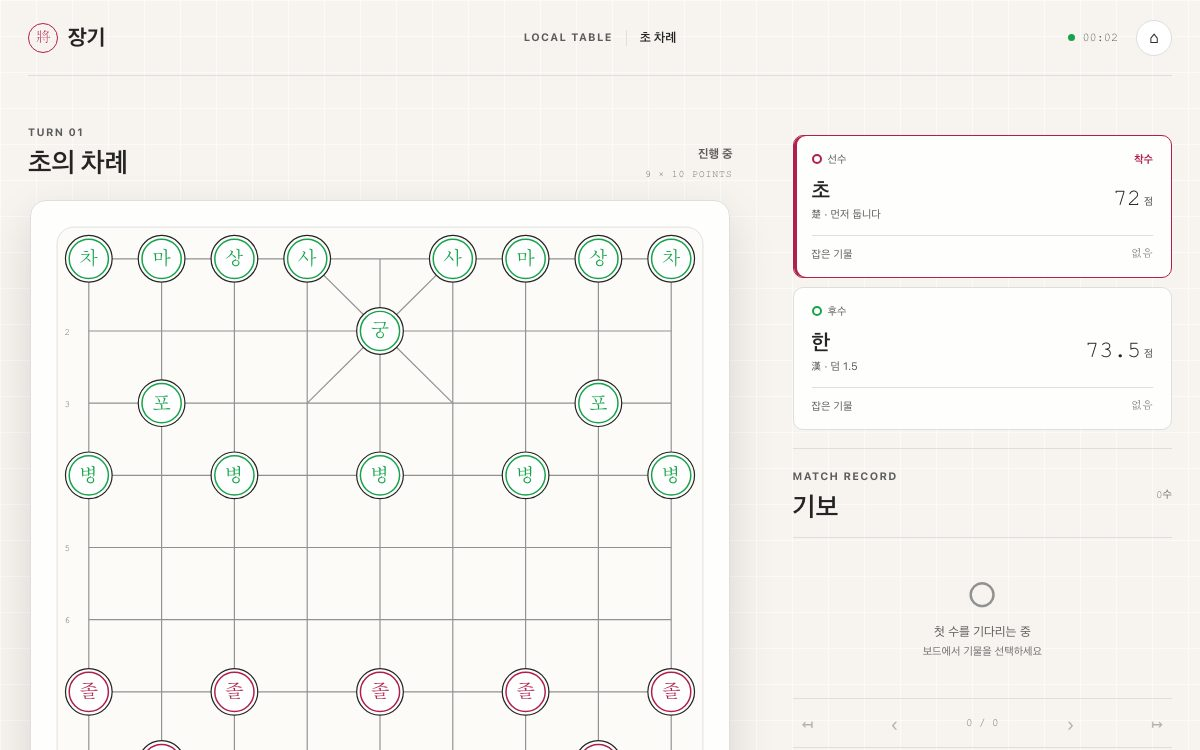
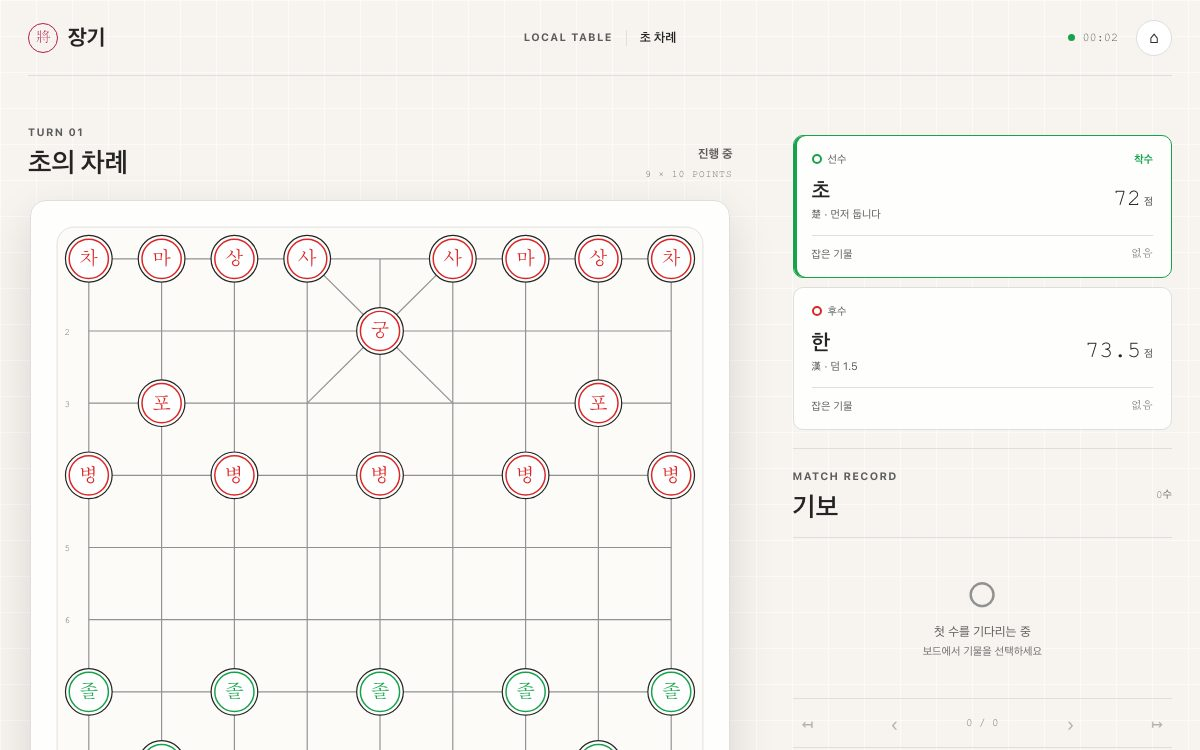
Publish cost comparison and correct Luna/Terra side colors

diff --git a/deploy/portal.template.html b/deploy/portal.template.html
@@ -674,6 +674,33 @@
         .impl { scroll-margin-top: 120px; }
         .impl-body { padding-inline: 16px; }
       }
+      .cost-kind { display: block; color: var(--muted); font-size: 10px; font-weight: 500; }
+      .cost-layout { display: grid; grid-template-columns: 1.4fr 1fr; gap: 28px; }
+      .cost-chart { margin: 0; padding: 18px 0; border-block: 1px solid var(--line); min-width: 0; }
+      .cost-chart h3 { margin: 0; font-size: 18px; }
+      .cost-axis { font-size: 12px; color: var(--muted); margin: 4px 0 16px; }
+      .cost-chart ol { list-style: none; padding: 0; margin: 0; }
+      .cost-row { display: grid; grid-template-columns: 170px minmax(0, 1fr) 85px; align-items: center; gap: 12px; min-height: 58px; border-bottom: 1px solid var(--line); padding: 8px 0; }
+      .cost-label { font-size: 13px; font-weight: 700; overflow-wrap: anywhere; }
+      .cost-label small { display: block; font-size: 10px; font-weight: 400; color: var(--muted); }
+      .cost-track { height: 16px; background: #e5eae7; }
+      .cost-bar { display: block; height: 100%; background: var(--env); }
+      .cost-bar.estimated { background: repeating-linear-gradient(135deg, var(--env) 0 3px, transparent 3px 6px); }
+      .cost-row strong { text-align: right; font-size: 12px; font-variant-numeric: tabular-nums; white-space: nowrap; }
+      .allocation-formula { padding: 16px 0; margin: 0; font-size: 15px; font-weight: 700; color: var(--cho); }
+      .cost-disclaimer { font-size: 13px; color: var(--muted); margin: 0 0 20px; max-width: 1000px; }
+      .allocation-table { width: 100%; border-collapse: collapse; font-size: 12px; margin: 16px 0; }
+      .allocation-table th, .allocation-table td { text-align: left; padding: 12px; border-bottom: 1px solid var(--line); overflow-wrap: anywhere; }
+      .allocation-table th { min-width: 110px; }
+      .allocation-table td:last-child { white-space: nowrap; font-weight: 700; }
+      @media (max-width: 1100px) { .cost-layout { grid-template-columns: 1fr; } }
+      @media (max-width: 640px) {
+        .cost-row { grid-template-columns: minmax(0, 1fr) 80px; gap: 6px 12px; }
+        .cost-label { grid-column: 1 / -1; }
+        .allocation-table thead { display: none; }
+        .allocation-table tr { display: block; border-bottom: 1px solid var(--line); padding: 12px 0; }
+        .allocation-table th, .allocation-table td { display: block; border: 0; padding: 4px 0; }
+      }
     </style>
   </head>
   <body>
@@ -683,6 +710,7 @@
         <a class="brand" href="#top">장기 개발 비교<small>MODEL / PLATFORM</small></a>
         <nav aria-label="페이지 탐색">
           <a href="#comparison">비용·사용량</a>
+          <a href="#costs">비용 그래프</a>
           <a href="#implementations">결과물</a>
           <a href="#environments">환경</a>
           <a href="#charts">지표</a>
@@ -701,25 +729,36 @@
       </header>
 
       <section id="comparison" aria-labelledby="comparison-title">
-        <div class="comparison-heading"><h2 id="comparison-title">전체 모델 비교</h2><p>USD는 크레딧 환산액이며 실제 청구액이 아닙니다.</p></div>
+        <p class="cost-disclaimer"><strong>가격 비교 주의:</strong> 구독제는 정확한 토큰당 비용을 측정하기 어렵기 때문에, 크레딧 기반 요금과 비용 구조가 일치하지 않을 수 있습니다. 아래 금액은 동일한 토큰 사용량에 대한 비용 비교가 아닙니다.</p>
+        <div class="comparison-heading"><h2 id="comparison-title">전체 모델 비교</h2><p>크레딧 환산액 / 구독료 배분 추정액 · 실제 청구액 아님</p></div>
         <div class="filters">
           <label>플랫폼<select id="platform-filter"><option value="all">전체 플랫폼</option><option value="copilot">GitHub Copilot</option><option value="claude-code">Claude Code</option><option value="codex">Codex</option></select></label>
-          <label>정렬<select id="sort-order"><option value="default">모델·플랫폼 순</option><option value="cost">GHCP 환산액 낮은 순</option><option value="time">기록된 시간 짧은 순</option></select></label>
+          <label>정렬<select id="sort-order"><option value="default">모델·플랫폼 순</option><option value="cost">환산·추정액 낮은 순</option><option value="time">기록된 시간 짧은 순</option></select></label>
           <label class="search">모델 검색<input id="model-search" type="search" placeholder="모델명 또는 폴더명" /></label>
           <p class="result-count" id="result-count" role="status" aria-live="polite">10 / 10개 결과물</p>
         </div>
         <div class="table-region" role="region" aria-label="전체 모델 비용·사용량 비교표" tabindex="0">
           <table class="comparison-table">
-            <caption>개발 기록과 현재 산출물 규모 · 구독형 사용량은 달러로 환산하지 않음</caption>
+            <caption>개발 기록과 현재 산출물 규모 · 구독형은 월 $20·30일·하루 2개 윈도우 배분 가정</caption>
             <thead><tr><th scope="col">모델 / 결과물</th><th scope="col">플랫폼</th><th scope="col">사용량</th><th scope="col">환산액 (USD)</th><th scope="col">개발 시간</th><th scope="col">Steps</th><th scope="col">파일</th><th scope="col">전체 라인</th><th scope="col">코드 LOC</th><th scope="col">비교 조건</th><th scope="col">실행</th></tr></thead>
             <tbody><!--COMPARISON_ROWS--></tbody>
           </table>
         </div>
         <p class="empty-state" id="empty-state" hidden>일치하는 결과물이 없습니다.</p>
         <div class="comparison-notes">
-          <p><strong>비용과 사용 한도는 다른 단위입니다.</strong> GHCP만 사용 크레딧을 100으로 나눕니다. Claude Code Pro는 5시간 윈도우의 약 33%·65% 소진이며, Codex는 한도 1회 소진 후 후속 요청 시 42% 잔여입니다. 구독료·토큰·총 비용으로 직접 환산할 수 없습니다.</p>
+          <p><strong>계산 근거가 다른 금액입니다.</strong> GHCP는 크레딧 ÷ 100, 구독형은 월 $20을 30일·하루 2개 윈도우에 배분한 추정입니다. Sonnet5 약 33%·Opus5 약 65%, Codex는 조건부 1.58개 윈도우를 적용합니다. 실제 사용료·추가 청구액이나 직접적인 가성비 순위가 아닙니다.</p>
           <p><strong>동일 조건의 성능 순위가 아닙니다.</strong> Sol Fast는 Sol 복제 후 수정·검증했고, Astra는 인접 구현을 참고했습니다. Codex의 시간은 중단·재개 전체 포함 여부가 불명확합니다. 미기록은 0이 아니며, 라인·테스트 수는 품질 점수가 아닙니다.</p>
         </div>
+      </section>
+
+      <section class="block" id="costs" aria-labelledby="cost-title">
+        <p class="cost-disclaimer"><strong>가격 비교 주의:</strong> 구독제는 정확한 토큰당 비용을 측정하기 어렵기 때문에, 크레딧 기반 요금과 비용 구조가 일치하지 않을 수 있습니다. 구독료 배분 추정액을 토큰당 단가나 실제 사용료로 해석하지 마세요.</p>
+        <div class="block-head"><h2 id="cost-title">비용을 나란히 보면</h2><p>전체 10개 결과물 고정 비교. 실선 막대는 GHCP 크레딧 환산, 사선 막대는 구독료 배분 추정입니다. 구독형 확대 그래프는 축 범위가 다릅니다.</p></div>
+        <p class="allocation-formula"><!--ALLOCATION_SUMMARY--></p>
+        <p class="cost-disclaimer">Claude와 GPT 각각 월 $20이라는 사용자 제공 금액을 사용합니다. 주간 한도를 고려해 하루 2개 윈도우를 활용한다고 단순화한 가정이며 공식 리셋 정책이 아닙니다. 실제 활용 횟수가 적으면 윈도우당 배분액은 커집니다. 두 서비스의 한도를 동일 성능이나 토큰량으로 간주하지 않습니다.</p>
+        <div class="cost-layout"><!--COST_CHARTS--></div>
+        <table class="allocation-table"><caption>구독형 계산 내역 · 중간값은 반올림하지 않고 최종 USD만 소수점 셋째 자리 표시</caption><thead><tr><th scope="col">결과물</th><th scope="col">사용량 가정</th><th scope="col">산식</th><th scope="col">배분 추정액</th></tr></thead><tbody><!--ALLOCATION_ROWS--></tbody></table>
+        <p class="cost-disclaimer">Codex의 42%는 잔여량이므로 두 번째 윈도우 사용량은 58%로 가정합니다. 첫 윈도우와 재설정 후 윈도우가 모두 100%로 시작했고 이 작업만 사용했다는 조건에서만 1 + 0.58 = 1.58개입니다. 기존 사용량·추가 리셋 비용·주간 제한의 실제 영향은 확인되지 않았습니다. 구독료는 사용하지 않아도 월 $20이며, 이 배분액만큼 추가 청구되거나 절약되는 것은 아닙니다.</p>
       </section>
 
       <section class="block" id="implementations" aria-labelledby="impl-title">
@@ -764,7 +803,7 @@
       <section class="block" id="resources" aria-labelledby="res-title">
         <div class="block-head">
           <h2 id="res-title">근거 자료와 한계</h2>
-          <p>확보된 자료만 싣고, 아직 없는 값은 추정하지 않고 미수집으로 표시했습니다.</p>
+          <p>관측 기록과 가정 기반 구독료 배분을 구분합니다. 미기록 시간·Steps는 추정하지 않습니다.</p>
         </div>
         <div class="resources">
           <!--RESOURCE_LINKS-->
@@ -776,7 +815,7 @@
           </div>
           <div>
             <h3>비용 환산</h3>
-            <p>GHCP는 사용자 제공 기준인 100 크레딧당 $1로 계산합니다. 플랜 포함량·구독료·세금은 반영하지 않은 환산액입니다. 다른 플랫폼의 윈도우 사용률과 합산하지 않습니다.</p>
+            <p>GHCP는 100 크레딧당 $1, 구독형은 사용자 제공 월 $20을 30일·하루 2개 윈도우로 배분한 시나리오입니다. 크레딧 환산액과 구독료 배분 추정액을 실제 발생 청구액으로 해석하지 않습니다.</p>
           </div>
           <div>
             <h3>규모·검증</h3>

diff --git a/luna/src/index.css b/luna/src/index.css
@@ -100,8 +100,8 @@ button:focus-visible, [tabindex]:focus-visible, input:focus-visible { outline: 2
 .setup-player-heading div span { color: var(--cp-text-muted); font-size: 0.72rem; }
 .setup-choice-value { margin-left: auto; color: var(--cp-text-muted); font-family: Consolas, "Courier New", Courier, monospace; font-size: 0.72rem; letter-spacing: 0.06em; }
 .side-pip { display: inline-block; width: 10px; height: 10px; border: 2px solid var(--cp-text); border-radius: 50%; background: var(--cp-surface); }
-.han-pip, .player-han .side-pip { border-color: var(--cp-success); }
-.cho-pip, .player-cho .side-pip { border-color: var(--cp-accent); }
+.han-pip, .player-han .side-pip { border-color: var(--cp-danger); }
+.cho-pip, .player-cho .side-pip { border-color: var(--cp-success); }
 .setup-choice-grid { display: grid; grid-template-columns: repeat(4, 1fr); gap: 8px; }
 .setup-choice { display: flex; flex-direction: column; align-items: stretch; gap: 11px; min-height: 74px; padding: 10px; border: 1px solid var(--cp-border); border-radius: 10px; color: var(--cp-text-muted); background: var(--cp-surface); text-align: left; transition: border-color 180ms ease, background-color 180ms ease, transform 180ms ease; }
 .setup-choice:hover { border-color: var(--cp-border-strong); transform: translateY(-2px); }
@@ -157,11 +157,11 @@ button:focus-visible, [tabindex]:focus-visible, input:focus-visible { outline: 2
 .piece { transition: transform 180ms ease; }
 .piece-face { fill: var(--cp-surface); stroke: var(--cp-text); stroke-width: 1.3; }
 .piece-edge { fill: none; stroke-width: 1.6; }
-.piece-han .piece-edge { stroke: var(--cp-success); }
-.piece-cho .piece-edge { stroke: var(--cp-accent); }
+.piece-han .piece-edge { stroke: var(--cp-danger); }
+.piece-cho .piece-edge { stroke: var(--cp-success); }
 .piece-glyph { fill: var(--cp-text); font-family: serif; font-size: 21px; font-weight: 700; }
-.piece-han .piece-glyph { fill: var(--cp-success); }
-.piece-cho .piece-glyph { fill: var(--cp-accent); }
+.piece-han .piece-glyph { fill: var(--cp-danger); }
+.piece-cho .piece-glyph { fill: var(--cp-success); }
 .board-point.is-selected .piece-face { fill: var(--cp-accent-soft); stroke: var(--cp-accent); stroke-width: 2; }
 .board-point.is-checked .piece-face { fill: var(--cp-highlight); stroke: var(--cp-danger); stroke-width: 2; }
 .board-tools { display: flex; align-items: center; justify-content: space-between; gap: 12px; margin-top: 16px; }
@@ -173,12 +173,14 @@ button:focus-visible, [tabindex]:focus-visible, input:focus-visible { outline: 2
 .game-sidebar { display: flex; flex-direction: column; gap: 18px; padding-top: 15px; }
 .players-stack { display: grid; gap: 9px; }
 .player-card { padding: 16px 18px; border: 1px solid var(--cp-border); border-radius: 10px; background: var(--cp-panel); }
-.player-card.is-turn { border-color: var(--cp-accent); box-shadow: inset 3px 0 0 var(--cp-accent); }
+.player-cho { --side-color: var(--cp-success); }
+.player-han { --side-color: var(--cp-danger); }
+.player-card.is-turn { border-color: var(--side-color); box-shadow: inset 3px 0 0 var(--side-color); }
 .player-card-top, .player-card-main, .captured-line, .panel-heading, .replay-controls, .draw-notice, .action-row { display: flex; align-items: center; justify-content: space-between; }
 .player-card-top { color: var(--cp-text-muted); font-size: 0.68rem; }
 .player-card-top .side-pip { margin-right: 6px; }
 .player-role { margin-right: auto; }
-.turn-live { color: var(--cp-accent); font-weight: 700; }
+.turn-live { color: var(--side-color); font-weight: 700; }
 .player-card-main { margin: 11px 0 14px; }
 .player-card-main h3 { margin: 0; font-size: 1.35rem; font-weight: 600; }
 .player-card-main p { margin: 3px 0 0; color: var(--cp-text-muted); font-size: 0.68rem; }

diff --git a/terra/src/App.css b/terra/src/App.css
@@ -182,13 +182,13 @@
 }
 
 .formation-picker.formation-cho .formation-option.is-selected {
-  border-color: var(--vermilion);
-  background: var(--vermilion-soft);
+  border-color: var(--jade);
+  background: var(--jade-soft);
 }
 
 .formation-picker.formation-han .formation-option.is-selected {
-  border-color: var(--jade);
-  background: var(--jade-soft);
+  border-color: var(--vermilion);
+  background: var(--vermilion-soft);
 }
 
 .formation-glyphs {
@@ -200,11 +200,11 @@
 }
 
 .formation-cho .formation-glyphs {
-  color: var(--vermilion);
+  color: var(--jade);
 }
 
 .formation-han .formation-glyphs {
-  color: var(--jade);
+  color: var(--vermilion);
 }
 
 .rule-options {
@@ -402,11 +402,11 @@
 }
 
 .turn-han {
-  background: var(--jade);
+  background: var(--vermilion);
 }
 
 .turn-cho {
-  background: var(--vermilion);
+  background: var(--jade);
 }
 
 .topbar-actions {
@@ -446,11 +446,11 @@
 }
 
 .player-panel.player-cho {
-  --side-color: var(--vermilion);
+  --side-color: var(--jade);
 }
 
 .player-panel.player-han {
-  --side-color: var(--jade);
+  --side-color: var(--vermilion);
 }
 
 .player-panel.is-active {
@@ -710,18 +710,18 @@
 }
 
 .piece-han .piece-disc {
-  fill: #edf4ee;
-  stroke: var(--jade);
-}
-
-.piece-cho .piece-disc {
   fill: #fff4eb;
   stroke: var(--vermilion);
 }
 
+.piece-cho .piece-disc {
+  fill: #edf4ee;
+  stroke: var(--jade);
+}
+
 .piece-inner-ring {
   fill: none;
-  stroke: var(--jade);
+  stroke: var(--vermilion);
   stroke-width: 1.4;
   opacity: 0.7;
 }
@@ -733,11 +733,11 @@
 }
 
 .piece-han .piece-symbol {
-  fill: var(--jade);
+  fill: var(--vermilion);
 }
 
 .piece-cho .piece-symbol {
-  fill: var(--vermilion);
+  fill: var(--jade);
 }
 
 .piece-in-check .piece-disc {

diff --git a/deploy/comparison.template.html b/deploy/comparison.template.html
@@ -515,7 +515,7 @@
           <h2 id="process-title">전체 모델·플랫폼 개발 기록</h2>
           <p>
             개발 기록과 사용자 제공 사용량을 표시합니다. GHCP는 100 크레딧당 $1로 환산하며,
-            Claude Code·Codex의 구독 사용 한도는 달러로 환산하지 않습니다. 파일 활동 시간은 세션 시간과 별개입니다.
+            Claude Code·Codex의 월 구독료 배분 추정과 비용 그래프는 <a href="/#costs">비교 홈</a>에서 별도 제공합니다. 파일 활동 시간은 세션 시간과 별개입니다.
           </p>
         </div>
         <div class="process-grid">

diff --git a/_comparison/data/cost-estimates.md b/_comparison/data/cost-estimates.md
@@ -1,0 +1,49 @@
+# 개발 비용 환산과 구독료 배분 추정
+
+기준일: 2026-09-06. 금액은 USD이며 실제 작업별 청구 내역이 아니다. GHCP 크레딧 환산과 구독료 배분 추정은 계산 근거가 다르다.
+
+**가격 비교 주의:** 구독제는 정확한 토큰당 비용을 측정하기 어렵기 때문에 크레딧 기반 요금과 비용 구조가 일치하지 않을 수 있다. 동일한 토큰 사용량에 대한 비용 비교가 아니다.
+
+## 계산 가정
+
+- GHCP: 사용자 제공 기준인 100 크레딧 = $1을 적용한다.
+- Claude·GPT 구독: 사용자 제공 월 결제액 각각 $20을 사용한다. 기존 기록의 플랜 명칭을 공식 가격표와 대조해 확정한 금액이 아니다.
+- 한 달은 30일, 하루 활용 가능한 5시간 윈도우는 2개로 가정한다. 주간 한도도 적용된다는 점을 고려한 사용자 지정 시나리오이며 공식 리셋 주기나 보장된 사용량이 아니다.
+- 월 60개 윈도우를 모두 활용할 때, 윈도우당 배분액 = $20 / (30 × 2) = 약 $0.333333이다.
+- 작업별 배분 추정액 = 윈도우당 배분액 × 사용한 윈도우 환산 개수. 소요 시간을 5시간으로 나누는 계산은 하지 않는다.
+- 중간 계산값은 반올림하지 않고 화면과 표의 최종값만 소수점 셋째 자리로 표시한다.
+
+## 전체 비교
+
+| 플랫폼 | 모델 / 결과물 | 계산 | 환산·추정액 | 구분 |
+| --- | --- | --- | ---: | --- |
+| GitHub Copilot | Astra | 2,627.3 / 100 | $26.273 | 크레딧 환산 |
+| GitHub Copilot | Opus5 | 1,301.6 / 100 | $13.016 | 크레딧 환산 |
+| GitHub Copilot | Sonnet5 | 1,014.6 / 100 | $10.146 | 크레딧 환산 |
+| GitHub Copilot | Sol | 498.9 / 100 | $4.989 | 크레딧 환산 |
+| GitHub Copilot | Sol Fast | 485.6 / 100 | $4.856 | 크레딧 환산 |
+| GitHub Copilot | Terra | 415.2 / 100 | $4.152 | 크레딧 환산 |
+| GitHub Copilot | Luna | 65.3 / 100 | $0.653 | 크레딧 환산 |
+| Codex | Astra | ($20 / 60) × 1.58 | 약 $0.527 | 조건부 배분 추정 |
+| Claude Code | Opus5 | ($20 / 60) × 0.65 | 약 $0.217 | 구독료 배분 추정 |
+| Claude Code | Sonnet5 | ($20 / 60) × 0.33 | 약 $0.110 | 구독료 배분 추정 |
+
+## Codex 조건
+
+기록은 한도 1회 소진 후 재설정·후속 요청 시 42% 잔여이다. 첫 윈도우가 100%에서 시작해 이 작업으로 전부 소진됐고, 재설정한 윈도우도 100%에서 시작해 이 작업만 사용했다고 가정한다.
+
+이 조건에서 1 + (1 - 0.42) = 1.58개 윈도우로 추정한다. 42%를 사용률로 보거나 전체 작업의 확정 소진율로 해석하지 않는다. 시작 잔여량·동시 작업·추가 리셋 비용이 확인되면 다시 계산해야 한다.
+
+## 해석 한계
+
+- 월 구독료는 사용하지 않아도 $20이다. 추정액은 작업에 배분한 구독료 지분이지 추가 청구액·API 사용료·한계비용·절감액이 아니다.
+- 활용 윈도우가 적으면 배분액이 커진다. 같은 30일에 하루 1개만 활용하면 위 구독형 추정액은 모두 2배가 된다.
+- 주간 한도의 실제 영향, 모델별 한도, 토큰량과 처리 성능, 세금은 반영하지 않았다. 같은 1%라도 플랫폼·모델 간 동일한 연산량을 뜻하지 않는다.
+- GHCP 구독료·포함 크레딧은 반영하지 않았다. 크레딧 환산액과 구독료 배분액만으로 직접적인 가성비 순위를 단정할 수 없다.
+- Sol Fast는 기존 Sol 복제·수정 작업이고 Astra는 인접 구현 참고 이력이 있다. 동일 조건의 신규 개발 비교가 아니다.
+
+## 데이터와 화면
+
+- [비용 데이터](../../deploy/development-records.json): 월 결제액·월 일수·하루 윈도우 수 및 모델별 관측값.
+- [계산 모듈](../../deploy/development-records.mjs): 크레딧 환산과 구독료 배분을 별도 값으로 계산.
+- 배포 첫 페이지의 비용 그래프: 전체 10개 공통 축과 구독형 3개 확대 축. 실선은 크레딧 환산, 사선은 배분 추정이다.

diff --git a/_comparison/data/make-claude-opus5.md b/_comparison/data/make-claude-opus5.md
@@ -17,15 +17,15 @@
 ## 해석 및 측정 기준
 
 - 사용량은 사용자가 제공한 근사 관측값이다. 5시간은 사용 한도의 집계 윈도우이며 실제 개발 소요 시간이 아니다.
-- 소진율을 개발 시간, 토큰, 비용 또는 GitHub Copilot 크레딧으로 환산하지 않는다.
-- 별도 세션 로그가 제공되지 않아 소요 시간과 Steps는 미기록으로 남긴다. 파일시스템 시각도 복사로 평탄화되어 개발 시간의 근거로 사용할 수 없다.
+- 소진율을 개발 시간·토큰·실제 청구액·GitHub Copilot 크레딧으로 환산하지 않는다. 월 $20·30일·하루 2개 윈도우를 가정한 [구독료 배분 추정](cost-estimates.md)은 약 $0.217이다.
+- 제공된 로그에 전체 소요 시간과 Steps의 확정값이 없어 미기록으로 남긴다. 파일시스템 시각도 복사로 평탄화되어 개발 시간의 근거로 사용할 수 없다.
 - 파일·라인 수는 [공통 집계 기준](README.md#측정-기준)에 따른 현재 폴더 실측값이며, 개발 당시 생성량이나 편집량이 아니다.
 
 ## 기록 출처
 
 - 사용량: 사용자 제공 정보 (Pro 플랜, 5시간 윈도우 약 65%).
 - 규모: 저장소의 기존 프로젝트 집계기를 이용한 2026-09-06 재측정.
-- 상세 개발 로그: 미제공. 구현·테스트 통과 여부를 새로 검증한 문서가 아니다.
+- 상세 개발 로그: 아래 사용자 제공 원문 보존. 구현·테스트 통과 여부를 새로 검증한 문서가 아니다.
 
 <details>
 <summary>원문 펼치기</summary>

diff --git a/_comparison/data/make-claude-sonnet5.md b/_comparison/data/make-claude-sonnet5.md
@@ -17,15 +17,15 @@
 ## 해석 및 측정 기준
 
 - 사용량은 사용자가 제공한 근사 관측값이다. 5시간은 사용 한도의 집계 윈도우이며 실제 개발 소요 시간이 아니다.
-- 소진율을 개발 시간, 토큰, 비용 또는 GitHub Copilot 크레딧으로 환산하지 않는다.
-- 별도 세션 로그가 제공되지 않아 소요 시간과 Steps는 미기록으로 남긴다. 파일시스템 시각도 복사로 평탄화되어 개발 시간의 근거로 사용할 수 없다.
+- 소진율을 개발 시간·토큰·실제 청구액·GitHub Copilot 크레딧으로 환산하지 않는다. 월 $20·30일·하루 2개 윈도우를 가정한 [구독료 배분 추정](cost-estimates.md)은 약 $0.110이다.
+- 제공된 로그에 전체 소요 시간과 Steps의 확정값이 없어 미기록으로 남긴다. 파일시스템 시각도 복사로 평탄화되어 개발 시간의 근거로 사용할 수 없다.
 - 파일·라인 수는 [공통 집계 기준](README.md#측정-기준)에 따른 현재 폴더 실측값이며, 개발 당시 생성량이나 편집량이 아니다.
 
 ## 기록 출처
 
 - 사용량: 사용자 제공 정보 (Pro 플랜, 5시간 윈도우 약 33%).
 - 규모: 저장소의 기존 프로젝트 집계기를 이용한 2026-09-06 재측정.
-- 상세 개발 로그: 미제공. 구현·테스트 통과 여부를 새로 검증한 문서가 아니다.
+- 상세 개발 로그: 아래 사용자 제공 원문 보존. 구현·테스트 통과 여부를 새로 검증한 문서가 아니다.
 
 <details>
 <summary>원문 펼치기</summary>

diff --git a/_comparison/data/README.md b/_comparison/data/README.md
@@ -29,6 +29,7 @@
 
 ## 비교 시 주의사항
 
+- 사용자 요청에 따라 월 $20·30일·하루 2개 윈도우 가정의 [비용 환산·구독료 배분 추정](cost-estimates.md)을 별도 제공한다. 실제 청구액이나 직접적인 비용 효율 비교가 아니다.
 - 크레딧과 사용량 윈도우 소진율은 단위와 한도 체계가 다르므로 직접 비교하거나 합산하지 않는다. 이 자료만으로 도구 간 비용 순위나 토큰당 효율을 계산할 수 없다.
 - Claude Code의 5시간은 개발 시간이 아닌 사용량 집계 구간이다. 약 33%와 약 65%를 시간으로 환산하지 않는다. 모델별 한도·기존 사용·동시 사용 조건이 확인되지 않아 두 비율만으로 상대 비용을 단정할 수도 없다.
 - Codex는 한도 소진·중단·재설정·재개가 기록되어 있다. 42% 잔여를 전체 작업 소진율로 해석하지 않으며, 24분 37초가 전체 재개 구간을 포함하는지도 확인되지 않았다.
